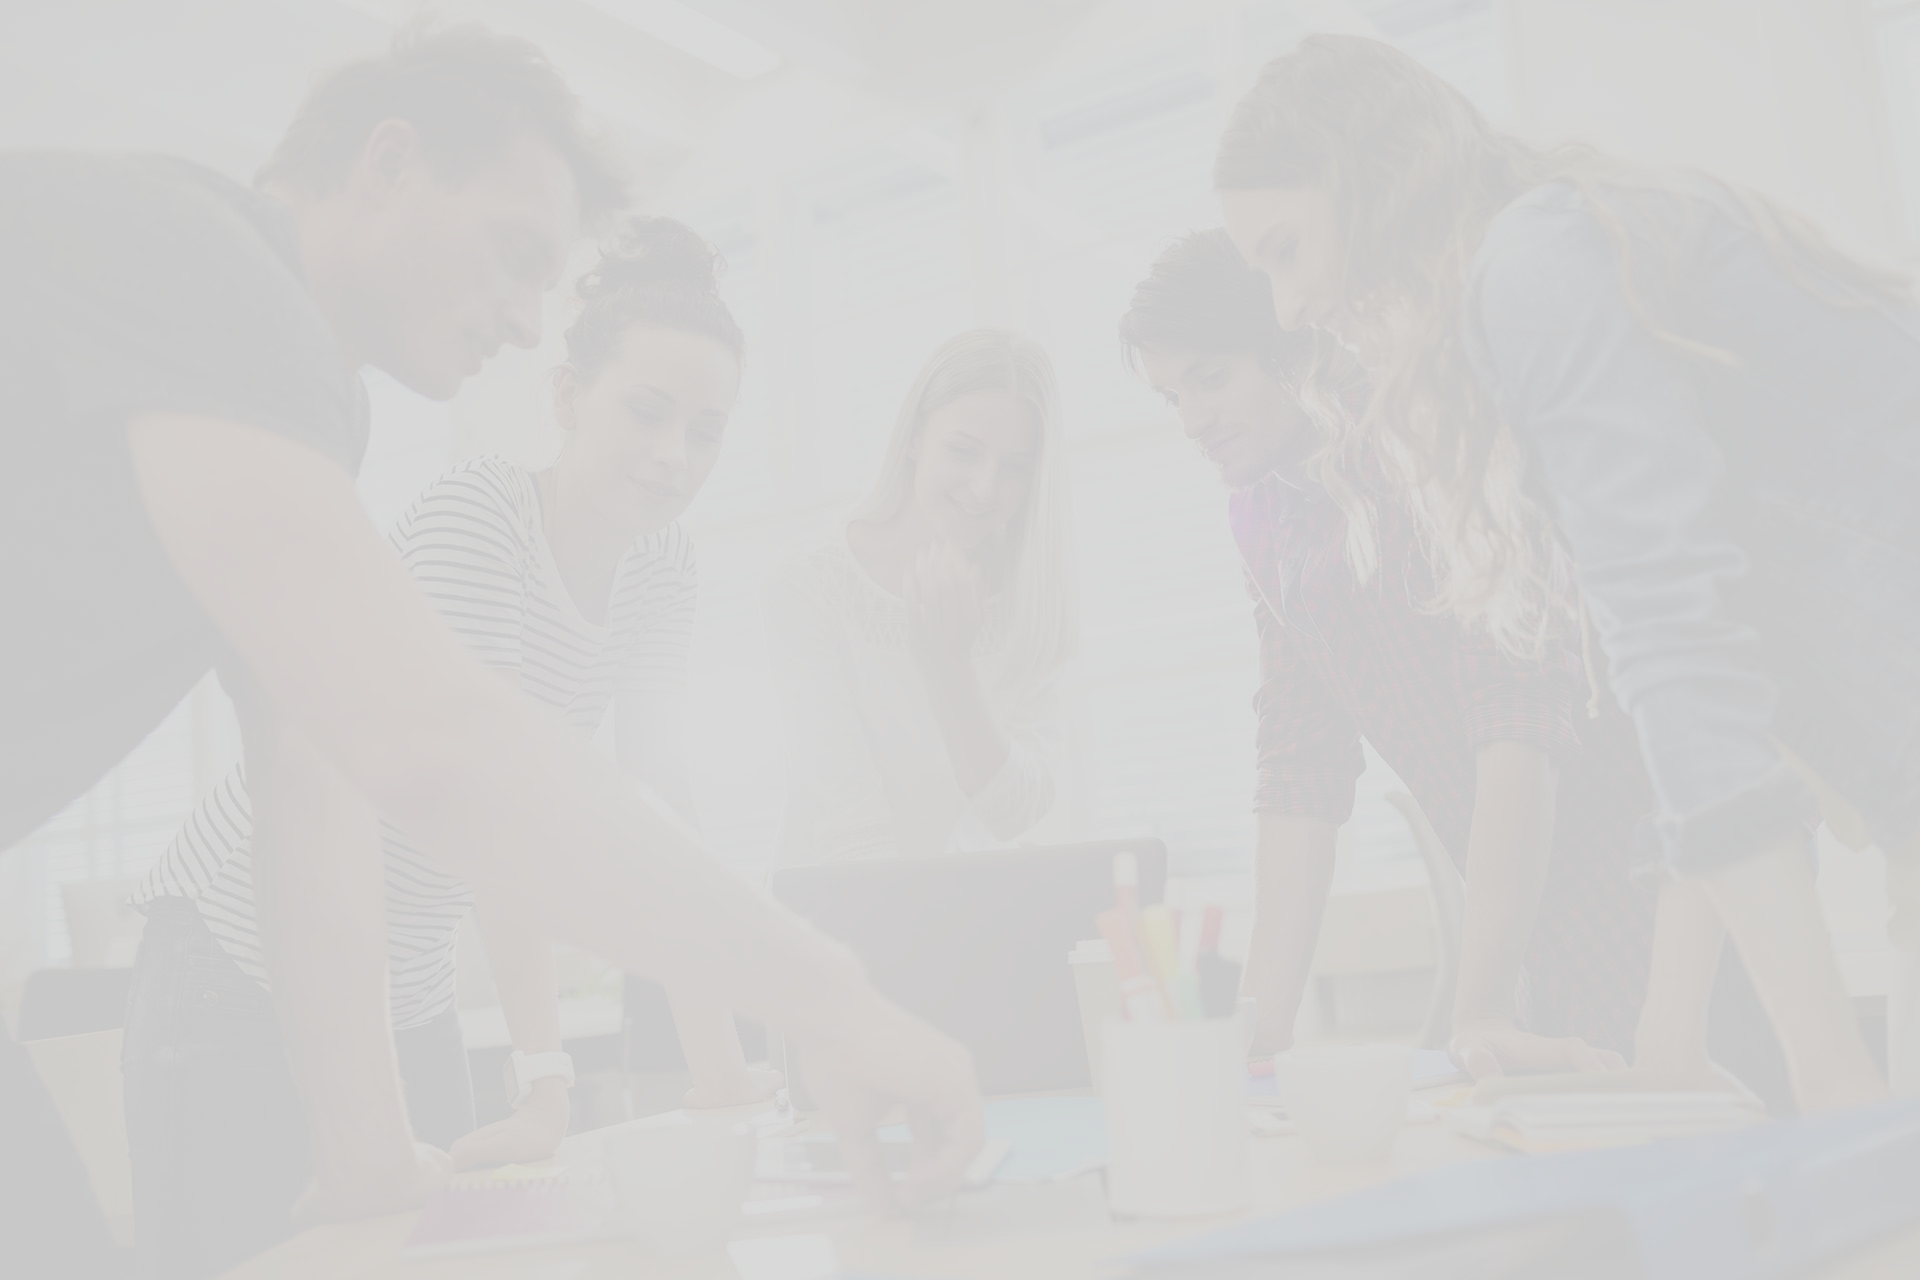
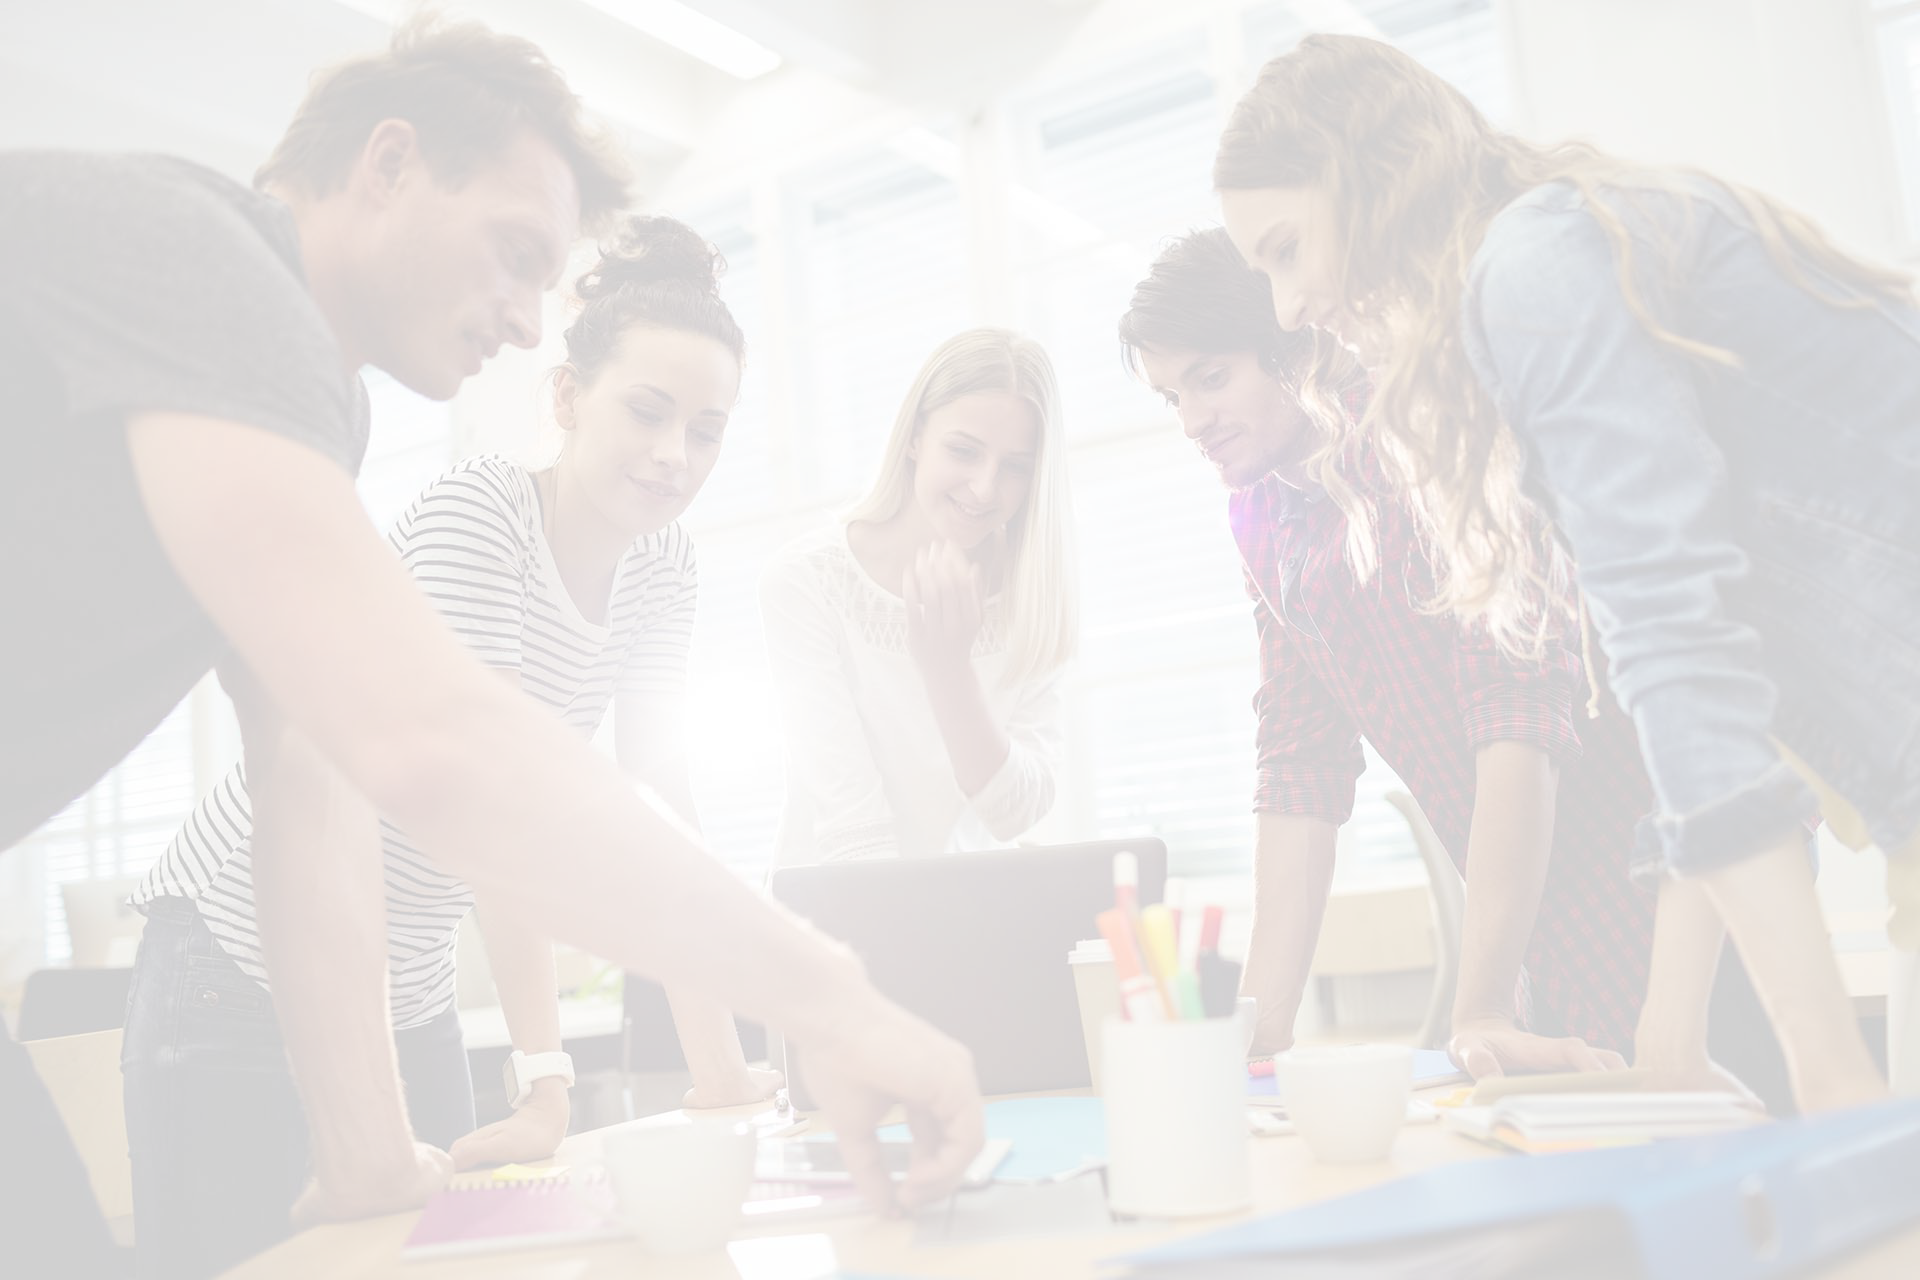
background updated

diff --git a/quesionnaire.css b/quesionnaire.css
@@ -5,22 +5,6 @@
     background-repeat: no-repeat;
     background-attachment: fixed;
 }
-#questionnaire:after{
-/*    content: "";
-
-/*    content: "";
-    background-image: url("images/background/homepage-bg.jpg");
-    background-size: cover;
-    background-position: top center;
-    background-repeat: no-repeat;
-    opacity: 0.15;
-    top: 0;
-    left: 0;
-    bottom: 0;
-    right: 0;
-    position: fixed;
-    z-index: -1;*/
-}
 .questionnaire-heading{
     text-align: center;
     color: var(--clr1)

diff --git a/reviewers.css b/reviewers.css
@@ -1,9 +1,9 @@
 #reviewers{
-    content: "";
     background-image: url("images/background/homepage-bg-lowOpacity.png");
     background-size: cover;
     background-position: top center;
     background-repeat: no-repeat;
+    background-attachment: fixed;
 }
 .reviewers-note, .reviewer-description{
     color: var(--clr1)
